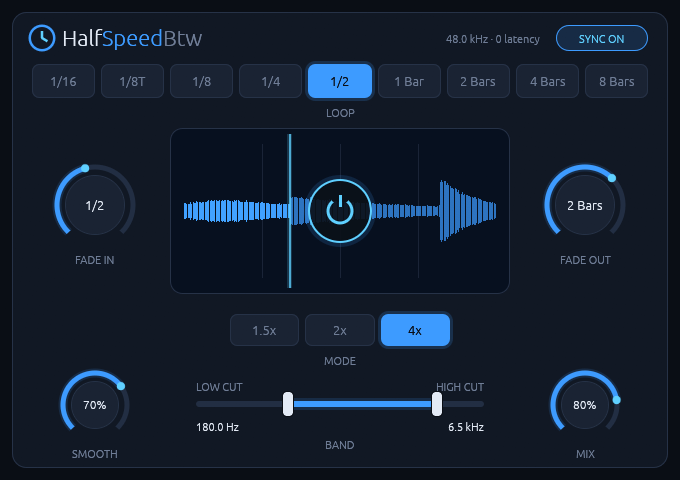
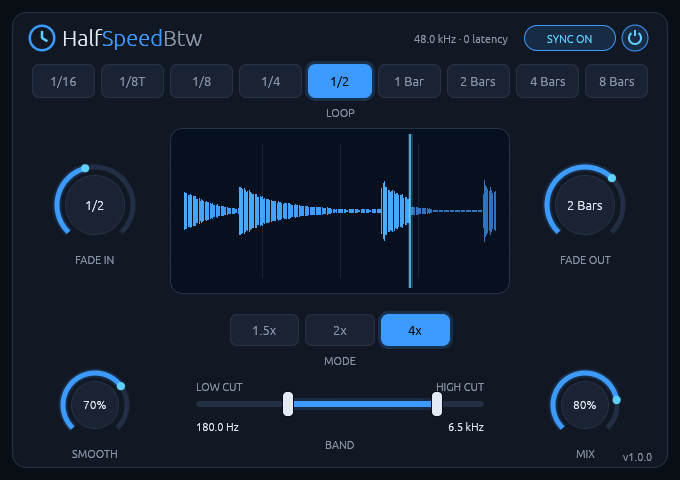
Release 1.0.0
Update both READMEs and the screenshots for the header power switch, the
version label and the faster reset.

diff --git a/README.md b/README.md
@@ -33,7 +33,8 @@ never allocates memory on the audio thread.
   dry signal keeps its full range.
 - **Mix:** blends the dry and slowed-down signals.
 - **Live waveform:** the display shows the slowed-down signal across the
-  current loop, with a playhead.
+  current loop, with a playhead. Nothing covers it: the power switch sits in
+  the header.
 - **Click-free:** every parameter change and every loop restart is ramped or
   crossfaded, and all parameters can be automated sample-accurately.
 - **Mono and stereo.**
@@ -48,7 +49,7 @@ never allocates memory on the audio thread.
 
 | Control | Range | Default | What it does |
 | --- | --- | --- | --- |
-| **Power switch** (center of the display) | On / Off | On | Fades the effect in or out. While it's off, the loop keeps running, so switching it back on lands in time. |
+| **Power switch** (top right corner) | On / Off | On | Fades the effect in or out. While it's off, the loop keeps running, so switching it back on lands in time. |
 | **Loop** | 1/16 to 8 bars | 1 bar | Length of each loop cycle. |
 | **Mode** | 1.5x, 2x, 4x | 2x | How much slower the loop plays. |
 | **Fade In** | Inst to 16 bars | Inst | How long the effect takes to fade in after you switch it on. |
@@ -56,7 +57,7 @@ never allocates memory on the audio thread.
 | **Smooth** | 0 to 100% | 30% | Crossfade at each loop restart: 1 ms at 0%, a quarter of the loop at 100%. |
 | **Band** | 20 Hz to 20 kHz | Fully open | Low cut and high cut on the slowed-down signal (12 dB/octave). At their end stops the filters are switched off completely. |
 | **Mix** | 0 to 100% | 100% | Dry/wet balance. |
-| **Sync** (top right) | On / Off | On | On: loops follow the host's bar grid while playing. Off: loops free-run at the host tempo. |
+| **Sync** (top right, next to the power switch) | On / Off | On | On: loops follow the host's bar grid while playing. Off: loops free-run at the host tempo. |
 
 **Mouse:** drag knobs up or down, and hold Shift for fine control.
 Double-click a knob or a band handle to reset it. Every control is also
@@ -79,9 +80,11 @@ At each restart the old and new playback positions are crossfaded. **Smooth**
 sets how long that crossfade is.
 
 **CPU use** is low. The included benchmark runs with both band filters engaged
-at 48 kHz in stereo, and takes about 0.25% of one core on average. The slowest
-32-sample block used 4% of its time budget. Your numbers will vary; run the
-benchmark yourself with the command under [Development](#development).
+at 48 kHz in stereo, and takes about 0.2% of one core on average. The slowest
+32-sample block used under 4% of its time budget. Resetting, which some hosts
+do on the audio thread when playback starts, takes well under a microsecond at
+any sample rate. Your numbers will vary; run the benchmark yourself with the
+command under [Development](#development).
 
 ## Status and compatibility
 
@@ -229,6 +232,8 @@ The tests cover:
 - **Sync:** loops align to the beat grid and handle transport jumps.
 - **Transitions:** fade timing, and no clicks at loop restarts or when a
   filter engages.
+- **Reset:** after a reset the plugin plays exactly like a fresh instance;
+  audio from before the reset is never heard again.
 - **Filters:** band attenuation, and tails that never decay into slow
   subnormal numbers.
 - **Real-time safety:** a counting allocator checks that `process()` never
@@ -244,7 +249,8 @@ license notices, and refuses to package a dirty working tree:
 scripts/package-release.sh
 ```
 
-Run the CPU benchmark (real-time factor and worst block per host block size):
+Run the CPU benchmark (real-time factor and worst block per host block size,
+then the time to reset at 48, 96 and 192 kHz):
 
 ```bash
 cargo run --release -p halfspeed-dsp --example bench

diff --git a/crates/btw-ui/README.md b/crates/btw-ui/README.md
@@ -44,7 +44,7 @@ fn ui(&mut self, ui: &mut egui::Ui, _frame: &mut nice_plug_egui::Frame) {
 | --- | --- |
 | `palette` | The colors (`BACKGROUND`, `SURFACE`, `RAISED`, `RAISED_HOVER`, `EDGE`, `DISPLAY`, `ACCENT`, `GLOW`, `TEXT`, `TEXT_DIM`), the translucent variants (`accent_halo()` and friends), `OPACITY_OFF`, and a WCAG `contrast()` function |
 | `type_scale` | The five font sizes: `WORDMARK` 22, `CONTROL_LABEL` and `VALUE_LARGE` 13, `VALUE` 12, `CAPTION` 11 |
-| `widgets` | `panel`, `wordmark`, `status`, `caption`, `toggle_pill`, `segmented`, `knob`, `display`, `power_switch`, `range_slider`, and `set_param` for one-gesture parameter changes |
+| `widgets` | `panel`, `wordmark`, `status`, `caption`, `toggle_pill`, `segmented`, `knob`, `display`, `power_switch` (on the display) and `compact_power_switch` (in the header), `range_slider`, `version_label`, and `set_param` for one-gesture parameter changes |
 | `geometry` | `arc_points`, `lerp_color`, and `LogScale` for logarithmic sliders |
 
 Every widget that changes a parameter reports it to the host as one automation

diff --git a/CHANGELOG.md b/CHANGELOG.md
@@ -1,6 +1,9 @@
 # Changelog
 
-## Unreleased
+## 1.0.0
+
+The first stable release. Plugin and parameter IDs are unchanged, so projects
+saved with 0.1.x open as before.
 
 - **Editor:** the power switch moved from the middle of the display to the
   header's right corner, next to SYNC, so it no longer covers the waveform.
